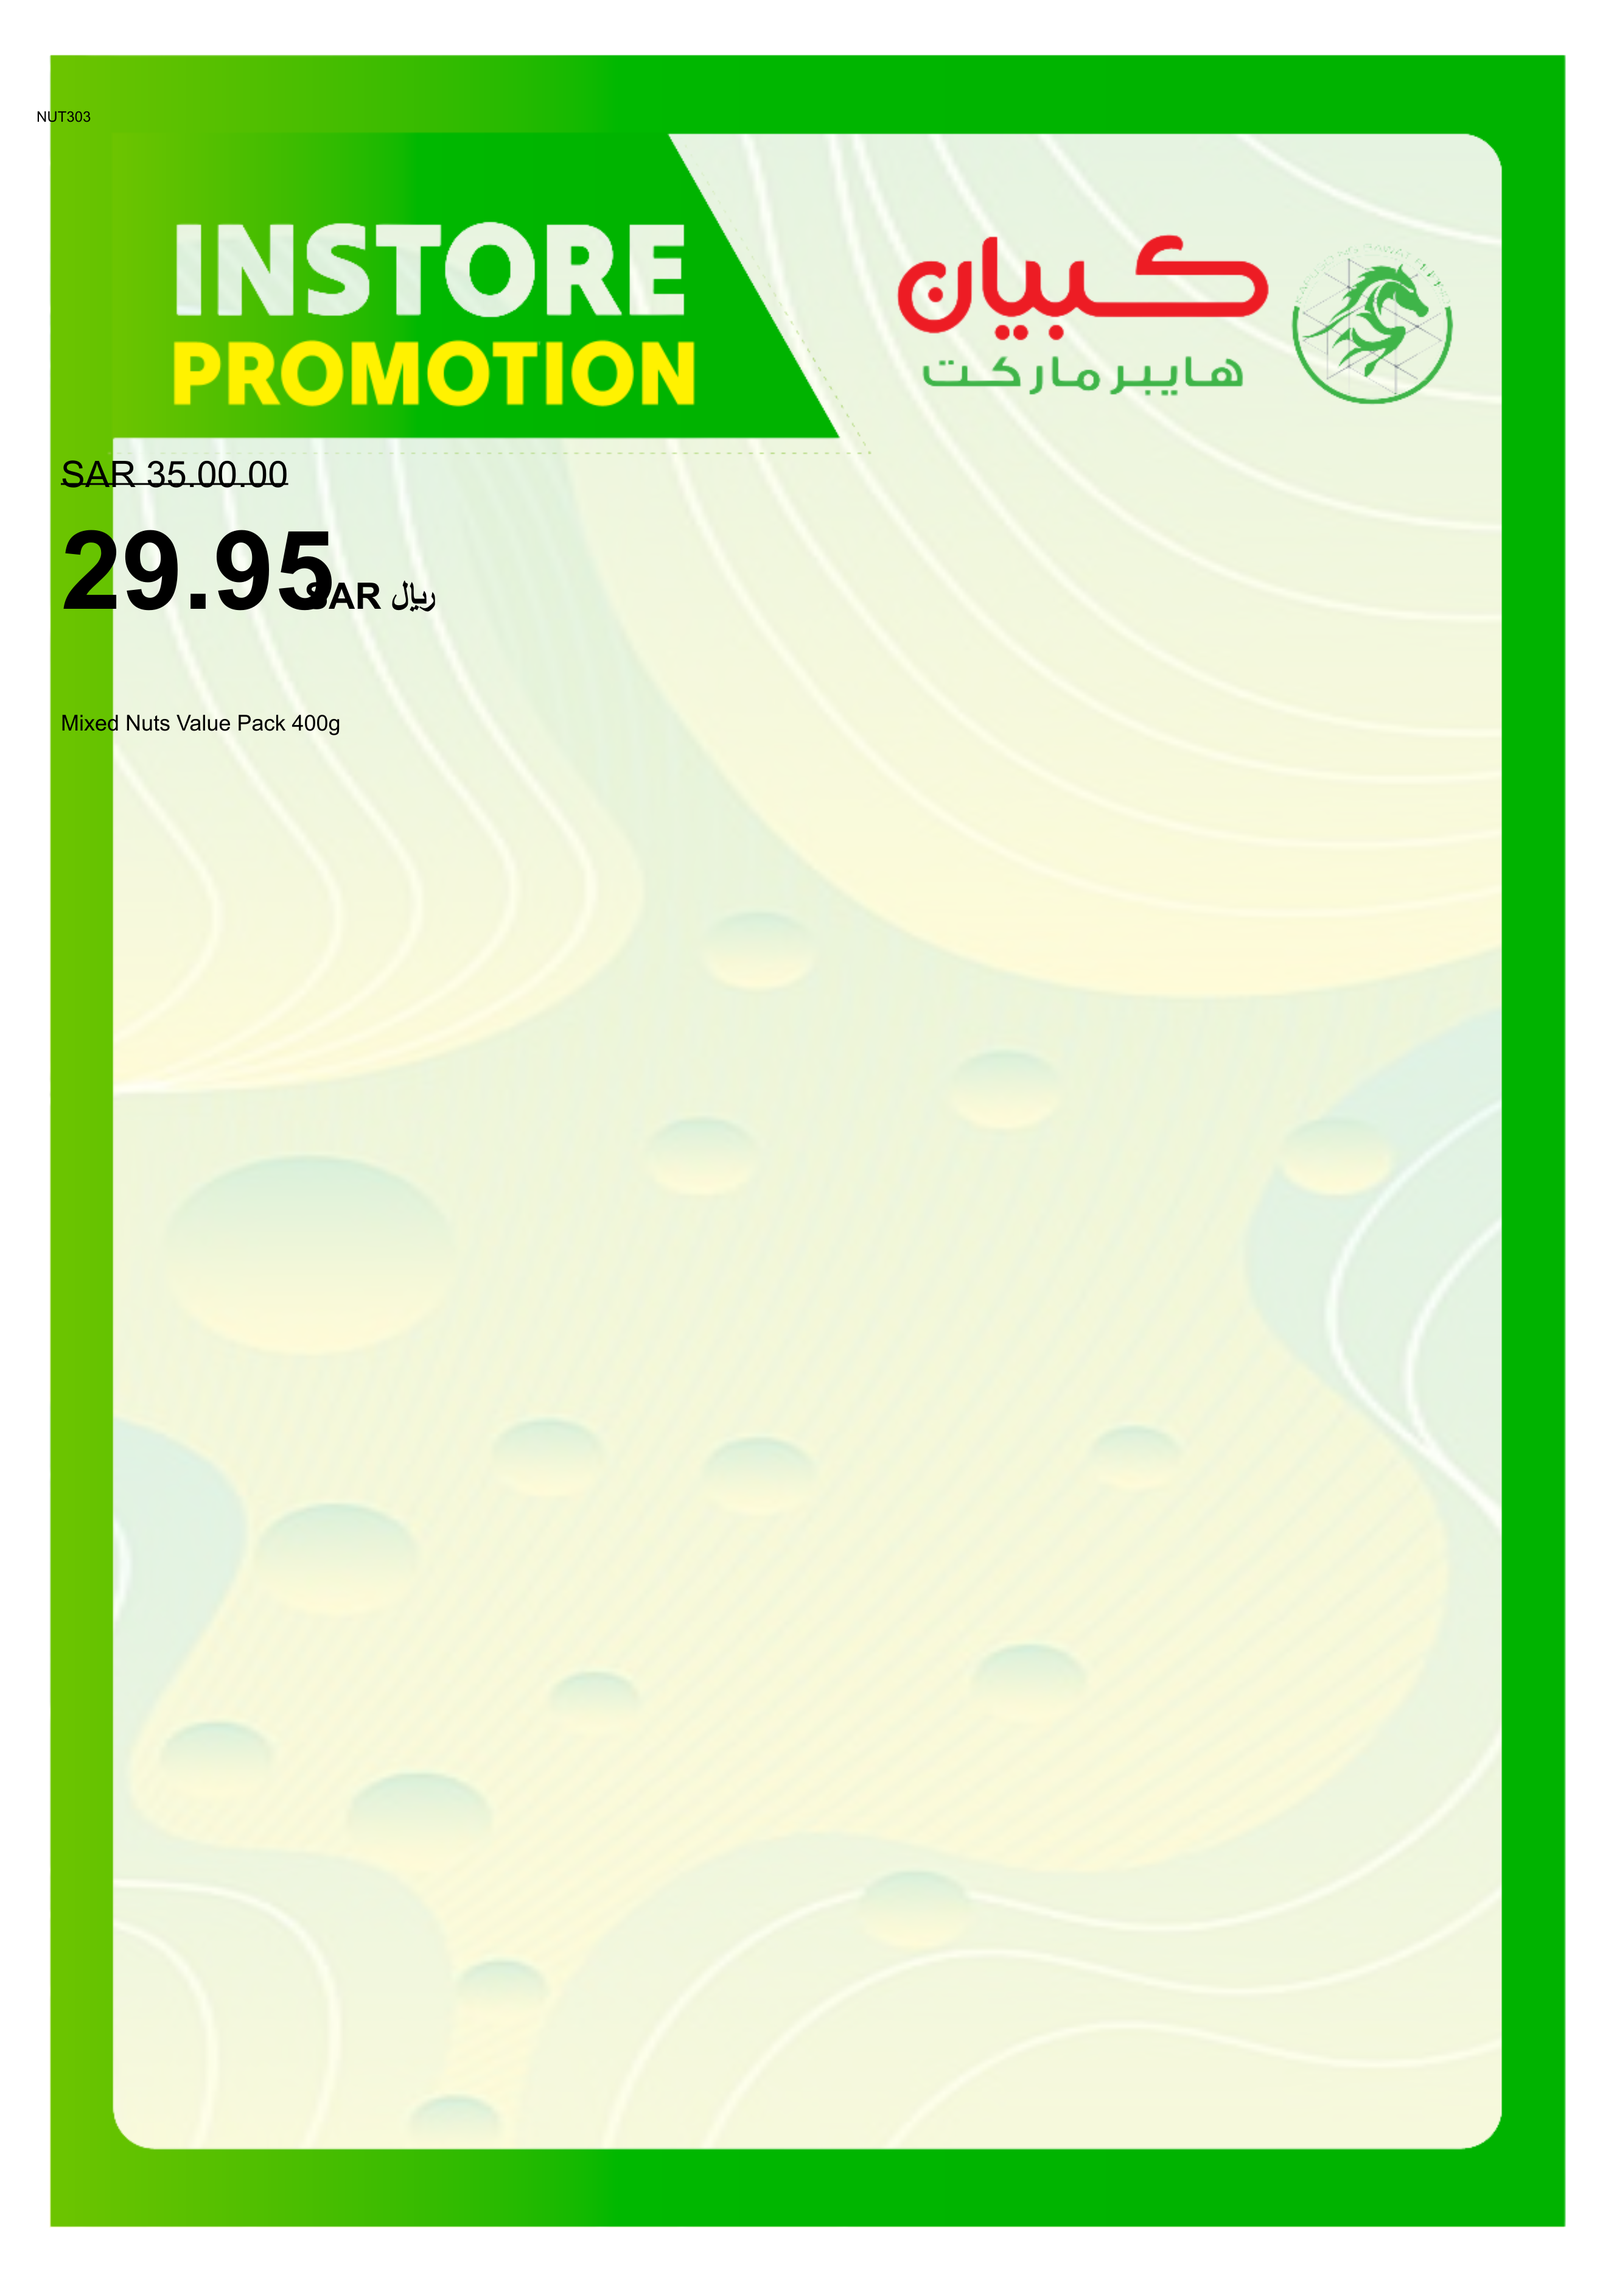
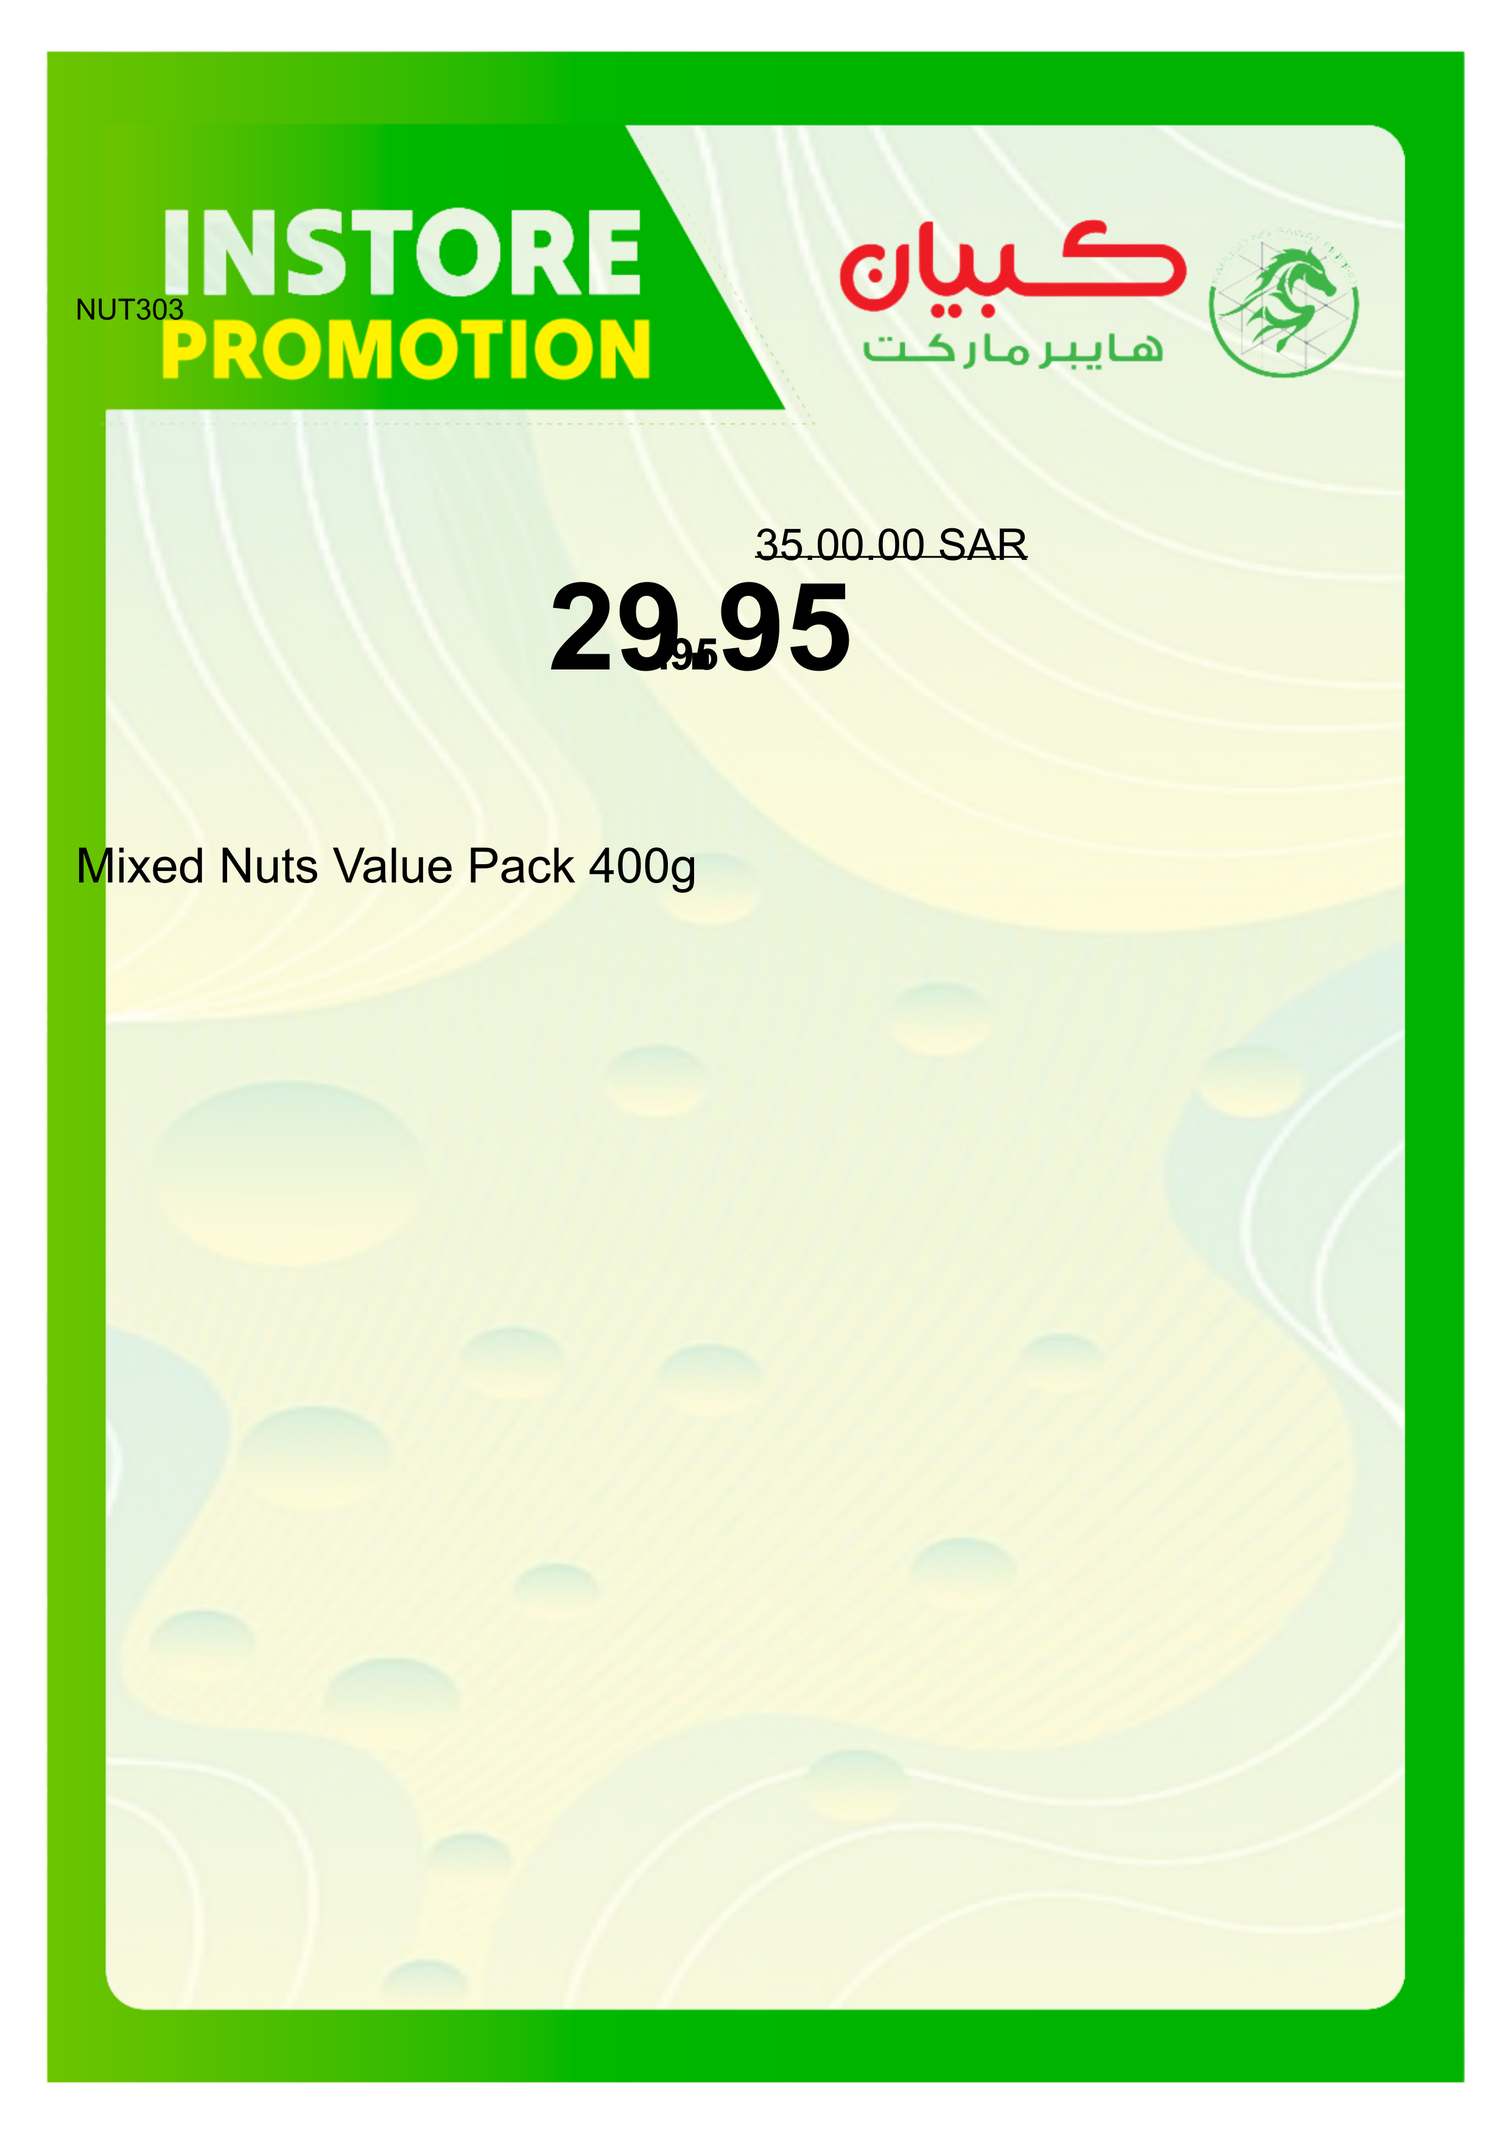
finetuning pending

diff --git a/src/index.js b/src/index.js
@@ -1,136 +1,130 @@
+const { createCanvas, loadImage } = require('canvas');
 const fs = require('fs');
 const path = require('path');
 const csv = require('csv-parser');
-const { createCanvas, loadImage } = require('canvas');
 
 class PosterGenerator {
-    constructor(templatePath) {
-        this.templatePath = templatePath;
-        // Positions matching the retail offer style
-        this.positions = {
-            sku: { x: 60, y: 200 },
-            productImage: { x: 400, y: 300 },
-            actualPrice: { x: 100, y: 800 },
-            offerPrice: { x: 100, y: 1000 },
-            name: { x: 100, y: 1200 }
-        };
+    constructor(templatesDir) {
+        // A4 size at 300 DPI: 2480 x 3508 pixels
+        this.width = 2480;
+        this.height = 3508;
+        this.templatesDir = templatesDir;
+        this.templates = new Map(); // Cache for loaded templates
+        
+        // Load template configurations
+        const configPath = path.join(templatesDir, '../template-config.json');
+        if (!fs.existsSync(configPath)) {
+            throw new Error('Template configuration file not found');
+        }
+        this.templateConfigs = JSON.parse(fs.readFileSync(configPath, 'utf8'));
+    }
+
+    async loadTemplate(templateName) {
+        if (!this.templates.has(templateName)) {
+            const templatePath = path.join(this.templatesDir, templateName);
+            if (!fs.existsSync(templatePath)) {
+                throw new Error(`Template not found: ${templateName}`);
+            }
+            const template = await loadImage(templatePath);
+            this.templates.set(templateName, template);
+        }
+        return this.templates.get(templateName);
     }
 
     async generatePoster(productData) {
-        // Load the template image
-        const template = await loadImage(this.templatePath);
-        
-        // Create canvas with template dimensions
-        const canvas = createCanvas(template.width, template.height);
+        const canvas = createCanvas(this.width, this.height);
         const ctx = canvas.getContext('2d');
 
-        // Draw template background
-        ctx.drawImage(template, 0, 0);
+        // Load and draw the specified template
+        const template = await this.loadTemplate(productData.template);
+        ctx.drawImage(template, 0, 0, this.width, this.height);
 
-        // Draw SKU at the top
-        ctx.font = '24px Arial';
-        ctx.fillStyle = 'black';
-        ctx.fillText(productData.sku, this.positions.sku.x, this.positions.sku.y);
-
-        // Draw product image (centered)
-        if (productData.image) {
-            try {
-                const productImage = await loadImage(productData.image);
-                const maxWidth = 600;
-                const maxHeight = 400;
-                const scale = Math.min(maxWidth / productImage.width, maxHeight / productImage.height);
-                const width = productImage.width * scale;
-                const height = productImage.height * scale;
-                const x = (canvas.width - width) / 2;
-                ctx.drawImage(productImage, x, this.positions.productImage.y, width, height);
-            } catch (error) {
-                console.error(`Failed to load product image for ${productData.sku}:`, error);
-            }
+        // Get configuration for this template
+        const config = this.templateConfigs[productData.template];
+        if (!config) {
+            throw new Error(`No configuration found for template: ${productData.template}`);
         }
 
-        // Draw actual price (struck through)
-        ctx.font = '60px Arial';
         ctx.fillStyle = 'black';
-        const actualPriceText = `SAR ${productData.actual_price}.00`;
+
+        // Add SKU
+        ctx.font = config.sku.font;
+        ctx.fillText(productData.sku, config.sku.x, config.sku.y);
+
+        // Draw actual price with strikethrough
+        ctx.font = config.actualPrice.font;
+        const actualPriceText = `${productData.actual_price}.00 SAR`;
         const metrics = ctx.measureText(actualPriceText);
-        ctx.fillText(actualPriceText, this.positions.actualPrice.x, this.positions.actualPrice.y);
+        ctx.fillText(actualPriceText, config.actualPrice.x, config.actualPrice.y);
+        
+        // Add strikethrough
         ctx.beginPath();
         ctx.lineWidth = 3;
-        ctx.moveTo(this.positions.actualPrice.x, this.positions.actualPrice.y - 5);
-        ctx.lineTo(this.positions.actualPrice.x + metrics.width, this.positions.actualPrice.y - 5);
+        ctx.moveTo(config.actualPrice.x, config.actualPrice.y - 5);
+        ctx.lineTo(config.actualPrice.x + metrics.width, config.actualPrice.y - 5);
         ctx.stroke();
 
-        // Draw offer price in large bold black
-        ctx.font = 'bold 180px Arial';
-        ctx.fillStyle = 'black';
-        ctx.fillText(productData.offer_price, this.positions.offerPrice.x, this.positions.offerPrice.y);
-        ctx.font = 'bold 60px Arial';
-        ctx.fillText('SAR ريال', this.positions.offerPrice.x + 400, this.positions.offerPrice.y);
+        // Draw offer price
+        ctx.font = config.offerPrice.font;
+        ctx.fillText(productData.offer_price, config.offerPrice.x, config.offerPrice.y);
+        
+        // Draw decimal part
+        ctx.font = config.offerPrice.decimal.font;
+        const decimalY = config.offerPrice.y + (config.offerPrice.decimal.yOffset || 0);
+        ctx.fillText('.95', 
+            config.offerPrice.x + ctx.measureText(productData.offer_price).width,
+            decimalY
+        );
 
-        // Draw product name at the bottom
-        ctx.font = '36px Arial';
-        ctx.fillStyle = 'black';
-        ctx.fillText(productData.name, this.positions.name.x, this.positions.name.y);
+        // Draw product name in both Arabic and English
+        ctx.font = config.name.font;
+        const lines = productData.name.split('\n');
+        let y = config.name.y;
+        for (const line of lines) {
+            ctx.fillText(line, config.name.x, y);
+            y += config.name.lineHeight;
+        }
 
         return canvas;
     }
 
-    setPositions(positions) {
-        this.positions = { ...this.positions, ...positions };
-    }
-}
+    async processCSV(inputFile, outputDir) {
+        if (!fs.existsSync(outputDir)) {
+            fs.mkdirSync(outputDir, { recursive: true });
+        }
 
-async function processCSV(templatePath, csvPath, outputDir) {
-    if (!fs.existsSync(outputDir)) {
-        fs.mkdirSync(outputDir, { recursive: true });
-    }
-
-    const generator = new PosterGenerator(templatePath);
-
-    fs.createReadStream(csvPath)
-        .pipe(csv())
-        .on('data', async (row) => {
-            try {
-                const canvas = await generator.generatePoster(row);
-                const fileName = `${row.sku || row.name.replace(/[^a-z0-9]/gi, '_').toLowerCase()}.png`;
-                const outputPath = path.join(outputDir, fileName);
-                
-                const out = fs.createWriteStream(outputPath);
-                const stream = canvas.createPNGStream();
-                stream.pipe(out);
-                
-                out.on('finish', () => {
-                    console.log(`Generated poster: ${fileName}`);
-                });
-            } catch (error) {
-                console.error(`Failed to generate poster for ${row.sku || row.name}:`, error);
-            }
-        })
-        .on('end', () => {
-            console.log('Finished processing all rows');
+        const results = [];
+        await new Promise((resolve, reject) => {
+            fs.createReadStream(inputFile)
+                .pipe(csv())
+                .on('data', (data) => results.push(data))
+                .on('end', resolve)
+                .on('error', reject);
         });
+
+        for (const product of results) {
+            try {
+                const canvas = await this.generatePoster(product);
+                const buffer = canvas.toBuffer('image/png');
+                fs.writeFileSync(path.join(outputDir, `${product.sku}.png`), buffer);
+                console.log(`Generated poster for SKU: ${product.sku}`);
+            } catch (error) {
+                console.error(`Error generating poster for SKU ${product.sku}:`, error.message);
+            }
+        }
+    }
 }
 
-// Check if required arguments are provided
-const args = process.argv.slice(2);
-if (args.length < 2) {
-    console.log('Usage: node index.js <template.png> <data.csv> [output_dir]');
-    process.exit(1);
+// Main execution
+if (require.main === module) {
+    const [,, templatesDir, inputFile, outputDir] = process.argv;
+    if (!templatesDir || !inputFile || !outputDir) {
+        console.error('Usage: node index.js <templates-directory> <input-csv> <output-directory>');
+        process.exit(1);
+    }
+
+    const generator = new PosterGenerator(templatesDir);
+    generator.processCSV(inputFile, outputDir)
+        .then(() => console.log('Processing complete!'))
+        .catch(error => console.error('Error:', error));
 }
-
-const templatePath = args[0];
-const csvPath = args[1];
-const outputDir = args[2] || 'output';
-
-// Validate files exist
-if (!fs.existsSync(templatePath)) {
-    console.error(`Template file not found: ${templatePath}`);
-    process.exit(1);
-}
-
-if (!fs.existsSync(csvPath)) {
-    console.error(`CSV file not found: ${csvPath}`);
-    process.exit(1);
-}
-
-processCSV(templatePath, csvPath, outputDir).catch(console.error);

diff --git a/create-template.js b/create-template.js
@@ -2,31 +2,56 @@ const { createCanvas } = require('canvas');
 const fs = require('fs');
 
 // Create a canvas for our template
-const width = 2480;
-const height = 3508;
+const width = 2480;  // A4 width at 300 DPI
+const height = 3508; // A4 height at 300 DPI
 const canvas = createCanvas(width, height);
 const ctx = canvas.getContext('2d');
 
-// Fill background with green
-ctx.fillStyle = '#4CAF50';
+// Fill background with green (matching the image)
+ctx.fillStyle = '#7AB547';
 ctx.fillRect(0, 0, width, height);
 
-// Create white content area with rounded corners
+// Create white content area with rounded corners (90% of width)
+const margin = width * 0.05;
+const contentStartY = height * 0.15;
 ctx.beginPath();
-ctx.moveTo(60, 140);
-ctx.lineTo(width - 60, 140);
-ctx.lineTo(width - 60, height - 40);
-ctx.lineTo(60, height - 40);
+ctx.moveTo(margin + 40, contentStartY);
+// Top edge with rounded corners
+ctx.quadraticCurveTo(margin, contentStartY, margin, contentStartY + 40);
+// Left edge
+ctx.lineTo(margin, height - margin - 40);
+// Bottom left corner
+ctx.quadraticCurveTo(margin, height - margin, margin + 40, height - margin);
+// Bottom edge
+ctx.lineTo(width - margin - 40, height - margin);
+// Bottom right corner
+ctx.quadraticCurveTo(width - margin, height - margin, width - margin, height - margin - 40);
+// Right edge
+ctx.lineTo(width - margin, contentStartY + 40);
+// Top right corner
+ctx.quadraticCurveTo(width - margin, contentStartY, width - margin - 40, contentStartY);
 ctx.closePath();
 ctx.fillStyle = '#FFFFFF';
 ctx.fill();
 
-// Add header text
+// Add diagonal white shape in header
+ctx.beginPath();
+ctx.moveTo(width * 0.45, 0);
+ctx.lineTo(width * 0.65, 0);
+ctx.lineTo(width * 0.55, contentStartY);
+ctx.lineTo(width * 0.35, contentStartY);
+ctx.closePath();
 ctx.fillStyle = '#FFFFFF';
-ctx.font = 'bold 80px Arial';
-ctx.fillText('INSTORE', 60, 100);
-ctx.fillStyle = '#FFEB3B'; // Yellow color for "PROMOTION"
-ctx.fillText('PROMOTION', 320, 100);
+ctx.fill();
+
+// Add "INSTORE" text
+ctx.fillStyle = '#FFFFFF';
+ctx.font = 'bold 120px Arial';
+ctx.fillText('INSTORE', margin, contentStartY * 0.7);
+
+// Add "PROMOTION" text in yellow
+ctx.fillStyle = '#FFE600';
+ctx.fillText('PROMOTION', margin + ctx.measureText('INSTORE ').width, contentStartY * 0.7);
 
 // Save the template
 const buffer = canvas.toBuffer('image/png');
